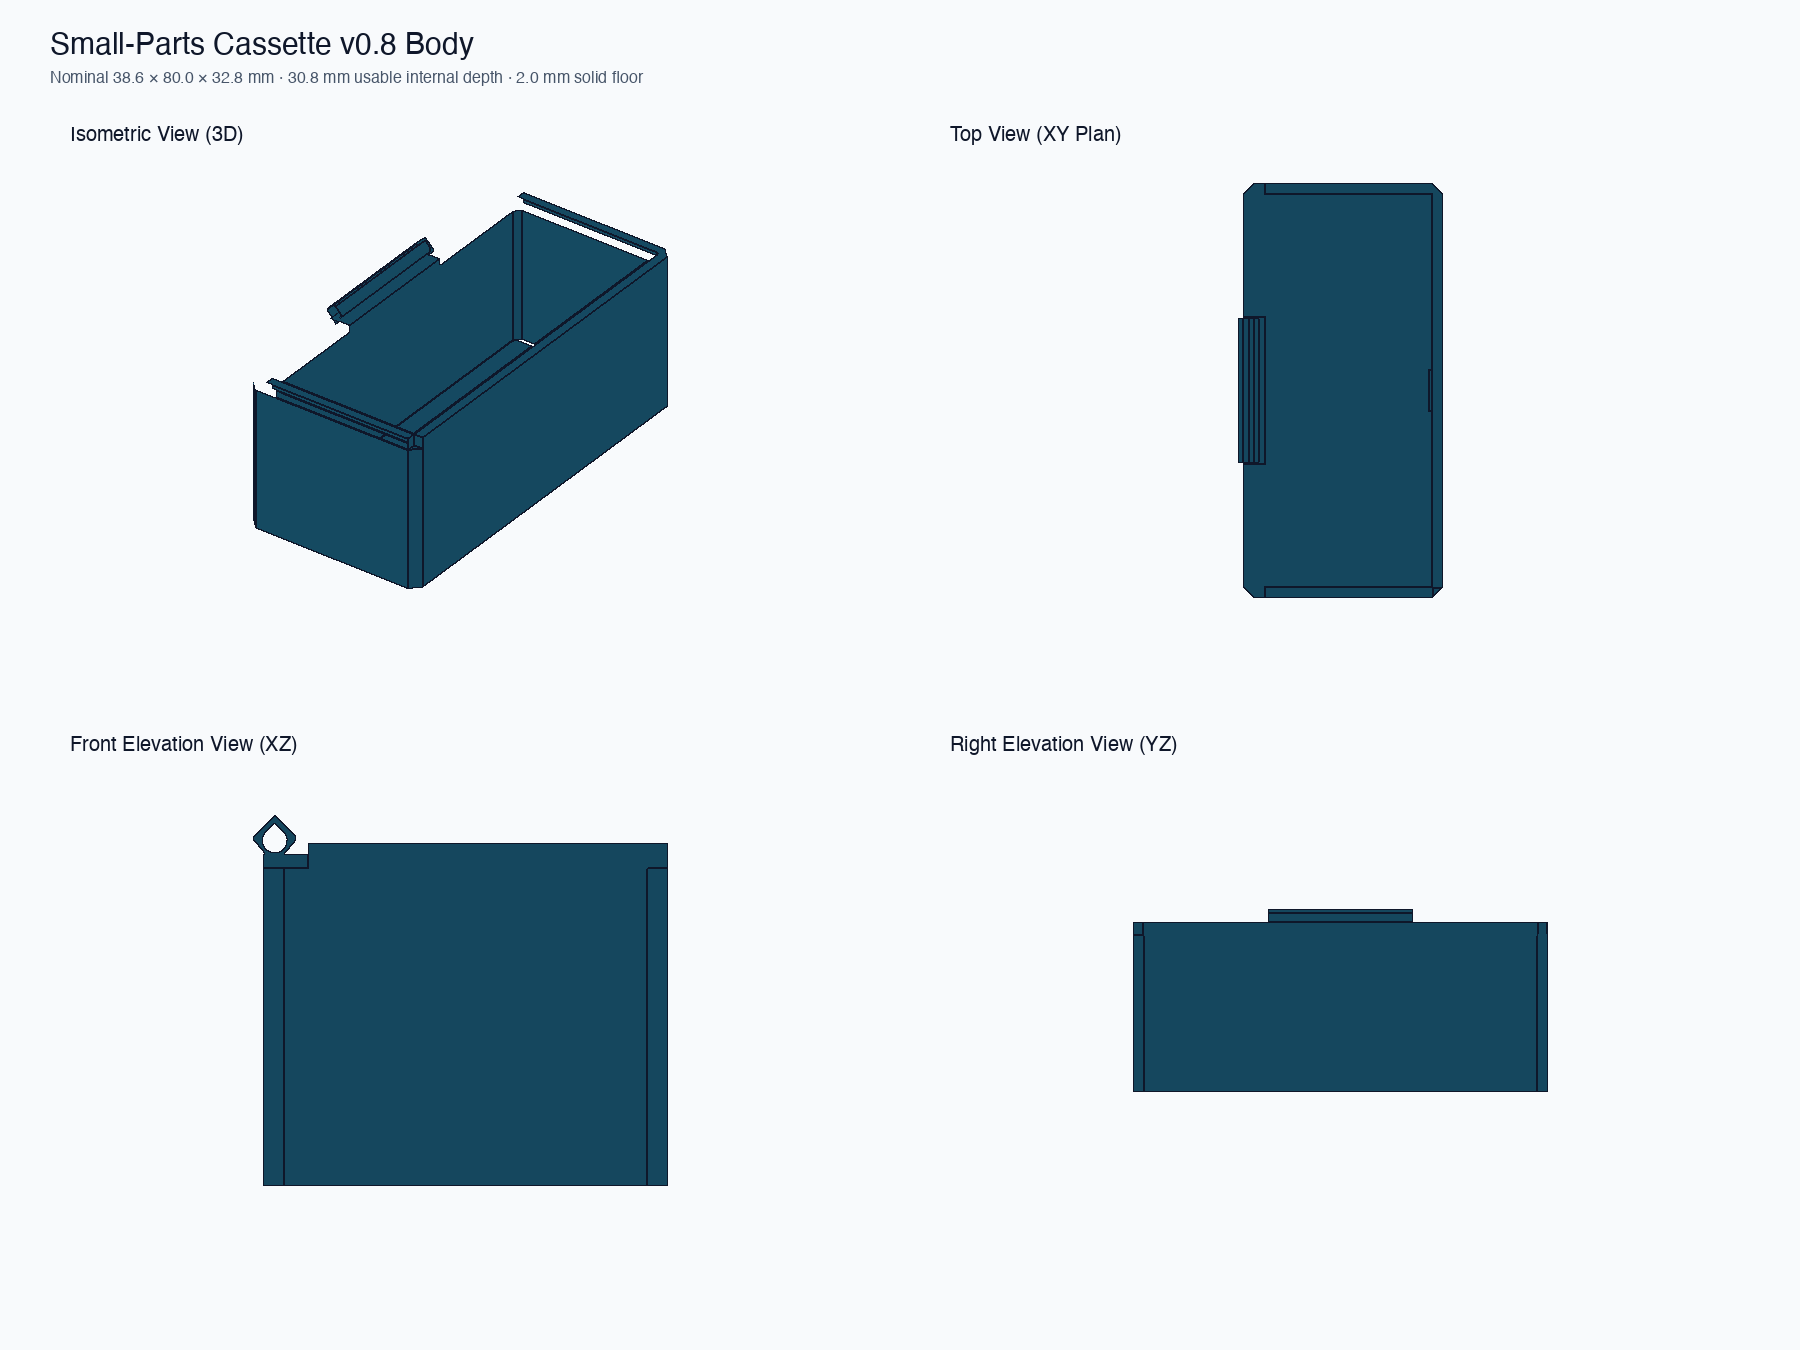
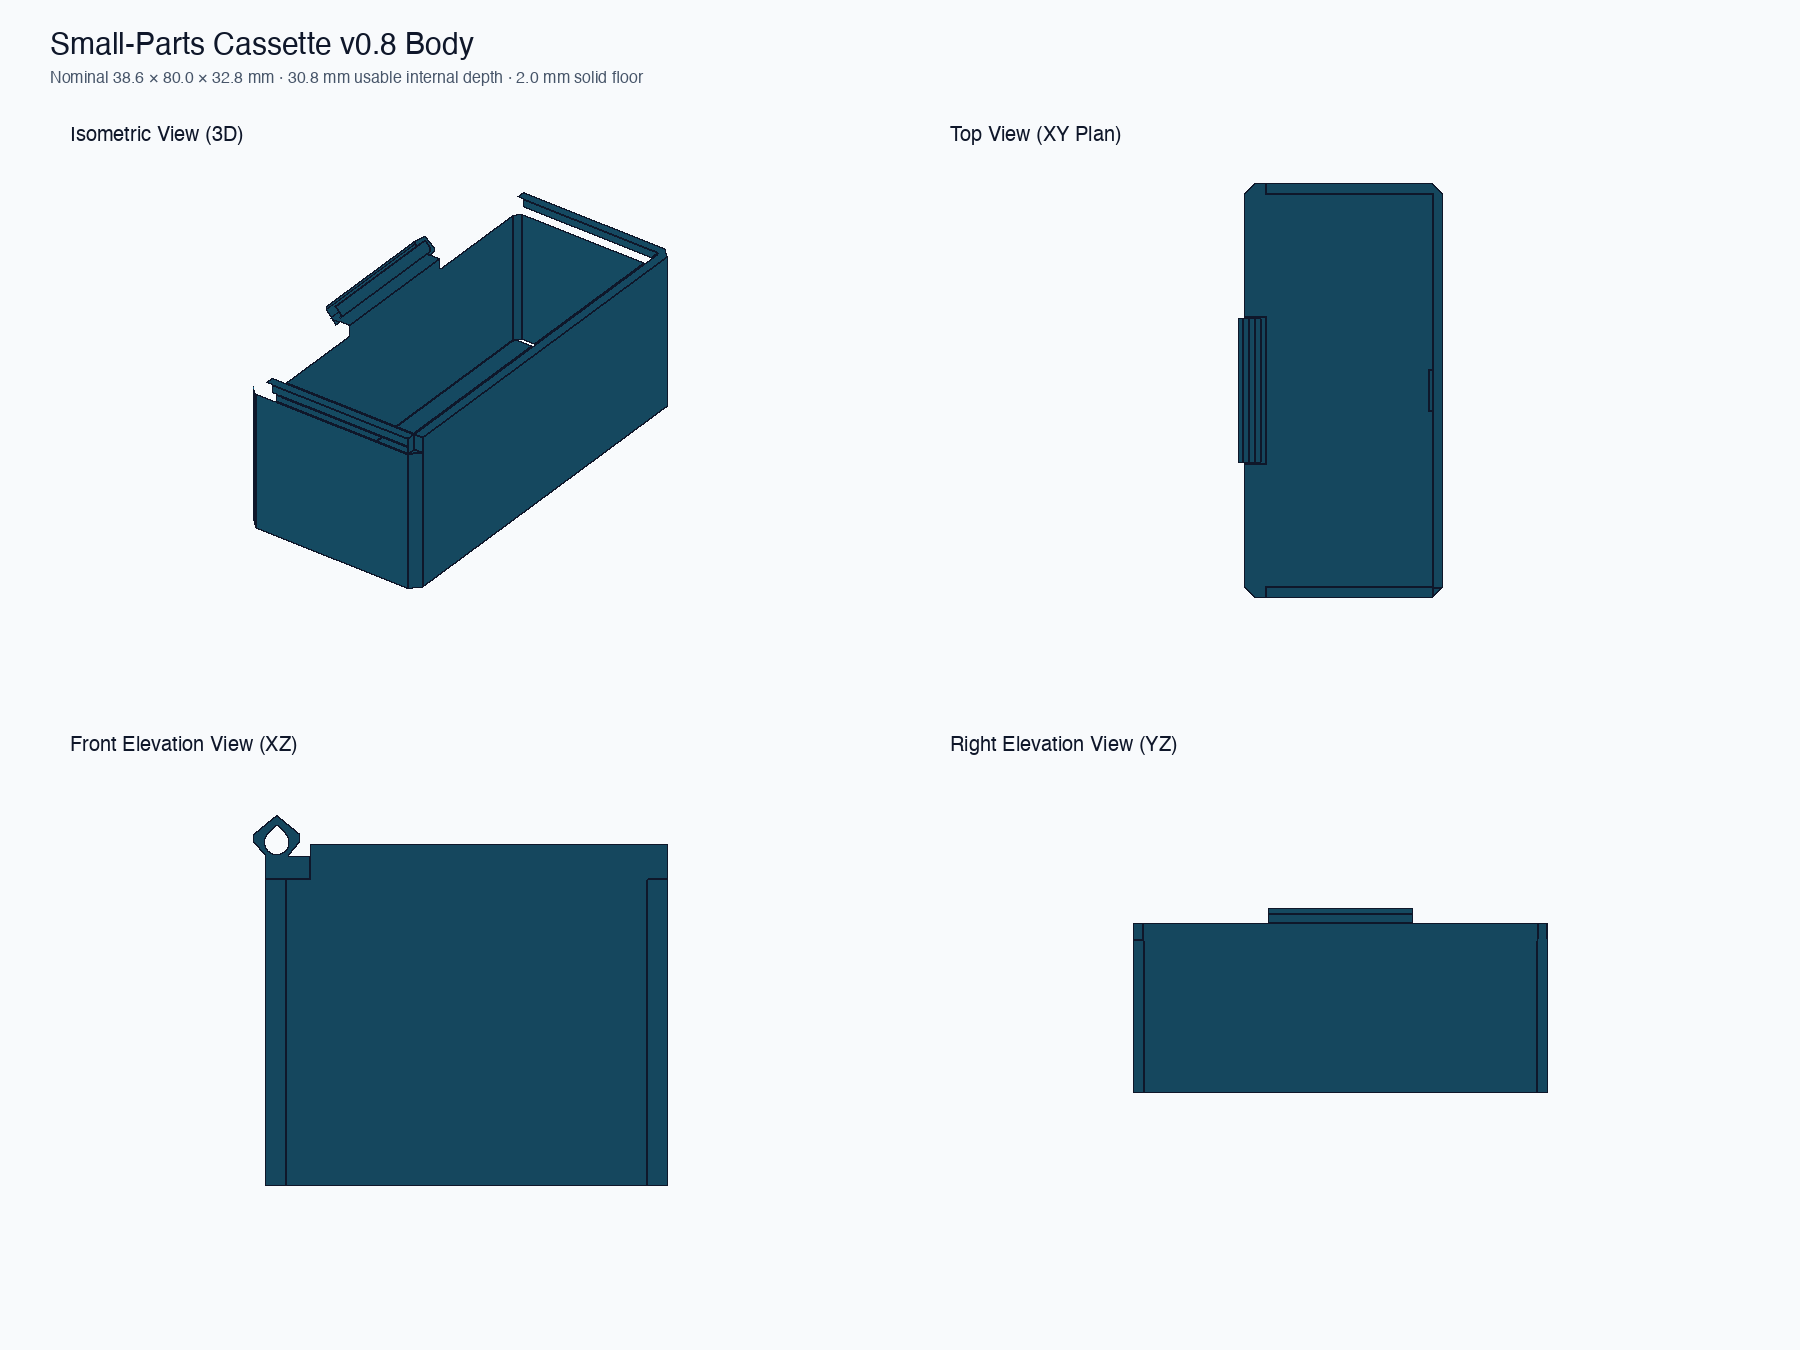
fix(hinge): thicken knuckle wall and bed-supported structural bridge
- Increase outer knuckle profile to 4.50 mm width (2.25 mm radius) and 0.80 mm side height, providing >= 1.20 mm solid wall thickness around 2.10 mm/2.25 mm bores (3 full perimeters)
- Extend solid knuckle root bridge to X = -15.50 mm (channel wall) and across print Z = 0.0 to 3.80 mm, eliminating the thin 0.15 mm wall sliver between knuckle bore and frame
- Update body relief shelf to Z = 29.50 mm, providing +0.75 mm to +2.40 mm positive clearance throughout 0-120 degree lid rotation
- Regenerate and audit all STLs and CAD drawing sheets

diff --git a/Cassettes/glass_slide_cassette_40x80/generate_cassette.py b/Cassettes/glass_slide_cassette_40x80/generate_cassette.py
@@ -56,11 +56,15 @@ HINGE_BODY_Y0 = -13.90
 HINGE_BODY_Y1 = 13.90
 HINGE_LID_END = 37.30
 
+# Thickened knuckle outer profile (>= 1.20 mm wall thickness everywhere around the bore)
+HINGE_OUTER_HALF_W = 2.25
+HINGE_OUTER_POINT = 2.65
+HINGE_OUTER_SIDE_TOP = 0.80
+
 # Rotational keep-out and body relief
-# The lowest point on the rotating lid knuckle dips to Z = 31.12 mm during swing.
-# Setting HINGE_BODY_RELIEF_TOP to 30.40 mm guarantees +0.72 mm to +2.40 mm positive clearance
+# Setting HINGE_BODY_RELIEF_TOP to 29.50 mm guarantees +0.75 mm to +2.40 mm positive clearance
 # across the entire 0-120 degree opening sweep with zero clash.
-HINGE_BODY_RELIEF_TOP = 30.40
+HINGE_BODY_RELIEF_TOP = 29.50
 HINGE_BODY_SUPPORT_TOP = BODY_H + HINGE_Z_LOCAL - HINGE_BODY_BORE_R - 0.15  # 32.10 mm
 HINGE_RELIEF_Y0 = HINGE_BODY_Y0 - 0.25                                     # -14.15 mm
 HINGE_RELIEF_Y1 = HINGE_BODY_Y1 + 0.25                                     #  14.15 mm
@@ -210,7 +214,7 @@ def prism_y(xz_loop: list[Vec2], y0: float, y1: float) -> Mesh:
     return m
 
 def peaked_hinge_y(cx: float, cz: float, y0: float, y1: float, print_up_sign: float, bore_r: float) -> Mesh:
-    ow, op, st = 2.05, 2.45, 0.45
+    ow, op, st = HINGE_OUTER_HALF_W, HINGE_OUTER_POINT, HINGE_OUTER_SIDE_TOP
     outer_print = [(-ow, st), (-ow, 0.0)]
     outer_print.extend((-ow * (1.0 - step / 9.0), -op * step / 9.0) for step in range(1, 10))
     outer_print.extend((ow * step / 9.0, -op * (1.0 - step / 9.0)) for step in range(1, 10))
@@ -265,7 +269,7 @@ def build_body(divided: bool = True) -> Mesh:
         (-15.00, 36.80), (-15.00, -36.80)
     ]
     
-    relief_top = HINGE_BODY_RELIEF_TOP # 30.40 mm
+    relief_top = HINGE_BODY_RELIEF_TOP # 29.50 mm
     body_h = BODY_H                   # 32.80 mm
     
     # 1. Lower shell: single continuous watertight solid (0 internal faces!)
@@ -280,7 +284,7 @@ def build_body(divided: bool = True) -> Mesh:
     upper_z0 = relief_top - 0.05
     join = 0.05
     
-    # 2. Upper rim walls (Z = 30.35 to 32.80 mm)
+    # 2. Upper rim walls (Z = 29.45 to 32.80 mm)
     # Front wall: X in [-15.00, 17.35] (leaves left corner clear for rotating knuckle)
     out.extend(box(-15.00, 17.35, -40.00, -38.00, upper_z0, body_h))
     # Back wall: X in [-15.00, 17.35] (leaves left corner clear for rotating knuckle)
@@ -421,29 +425,30 @@ def build_lid_local() -> Mesh:
     )
 
     # Bed-supported roots for the two lid knuckles
-    # Spans the entire knuckle width (X in [-20.25, -15.50 mm]) and rises to Z_local = 3.20 mm
-    # In print orientation, this produces a solid foundation from Z_print = 0.00 to 2.65 mm!
+    # Spans the entire knuckle width (X in [-20.50, -15.50 mm]) from local Z = -0.60 to 3.20 mm
+    # In print orientation, this forms a 100% solid, thick foundation from the build plate (Z_print = 0.00 mm)
+    # directly through the bore centerline up to Z_print = 3.80 mm, providing >= 1.65 mm wall thickness!
     left_end = -HINGE_LID_END
     left_inner = HINGE_BODY_Y0 - HINGE_GAP
     right_inner = HINGE_BODY_Y1 + HINGE_GAP
     right_end = HINGE_LID_END
     out.extend(
         box(
-            -20.25,
+            -20.50,
             -15.50,
             left_end - 0.10,
             left_inner + 0.10,
-            0.55,
+            -0.60,
             LID_H,
         )
     )
     out.extend(
         box(
-            -20.25,
+            -20.50,
             -15.50,
             right_inner - 0.10,
             right_end + 0.10,
-            0.55,
+            -0.60,
             LID_H,
         )
     )
@@ -590,7 +595,8 @@ def main():
             "slot_stations_y": SLOT_STATIONS,
             "card_baseline": [33.30, 31.20, 1.20],
             "hinge_body_length": HINGE_BODY_Y1 - HINGE_BODY_Y0,
-            "hinge_rotational_clearance": "+0.72 mm to +2.40 mm over 0-120 deg"
+            "hinge_knuckle_min_wall_thickness_mm": 1.20,
+            "hinge_rotational_clearance": "+0.75 mm to +2.40 mm over 0-120 deg"
         },
         "audits": {
             "cassette_body_v0_8_divided.stl": audit_body_div,
